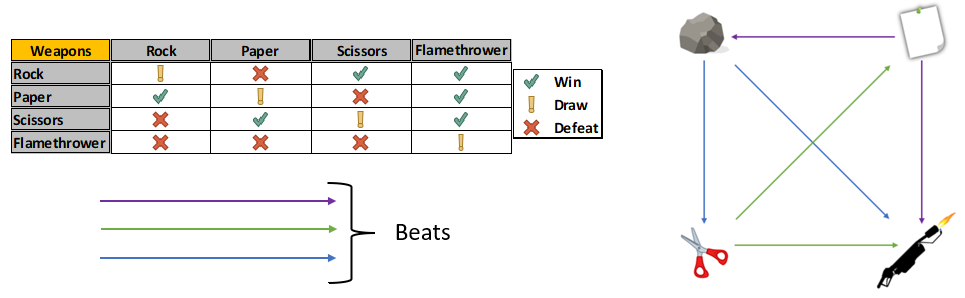
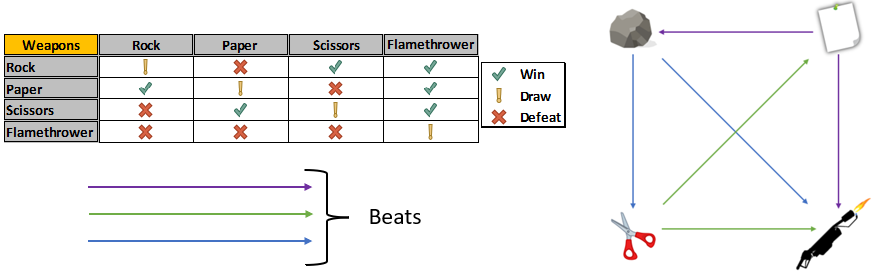
123654

diff --git a/blog.md b/blog.md
@@ -39,15 +39,19 @@ In our first scenario, let’s assume that every weapon defeats two other weapon
 
 ![Picture 2](/assets/blog_RPS2.png)
 
-According to the table,the 3 original weapons get 2 wins against the other weapons. Newly added weapon, the flamethrower gets "0" wins. This condition "breaks" the game. No one will select the flamethrower, because it is almost a guaranteed defeat - at best a draw. The game simply returned to its original form. 
+According to the table,the 3 original weapons get 2 wins against the other weapons. Newly added weapon, the flamethrower gets "0" wins. This condition "breaks" the game. No one will select the flamethrower, because it is almost a guaranteed defeat - at best a draw. The game simply returned to its original in a flawed form. 
 
-For the second scenario, we will assume that every weapon must win **one time** at least. Working our way to the bottom, I have created a table with new conditions, as can be seen below:
+For the second scenario, we will assume that every weapon must win **one time** at least. Working our way from top to the bottom, with original win conditions pritorized, I have created a table with new conditions, which can be seen below:
 
 ![Picture 3](/assets/blog_RPS3.png)
 
-Now at least our poor(!) flamethrower can have a win. But this have consequences; scissors is down to 1 win, while rock and paper have 2 wins. Still broken and unbalanced, this is unplayable too.
+Now at least our poor(!) flamethrower can have a win. But this have consequences; paper is down to 1 win, while rock and scissors have 2 wins. Any logical player would choose either rock or scissors, with the higher win rates, which puts rock a slightly adventegous position, as it beats scissors. This version is also broken and unbalanced, this is unplayable too.
 
 Time to move on to the third scenario: every weapon wins **only** one time. This makes it 1 win, 2 draws and 1 defeat for each weapon according to the table below:
+
+![Picture 3](/assets/blog_RPS4.png)
+
+
 
 ---------------------------
 ---------------------------
